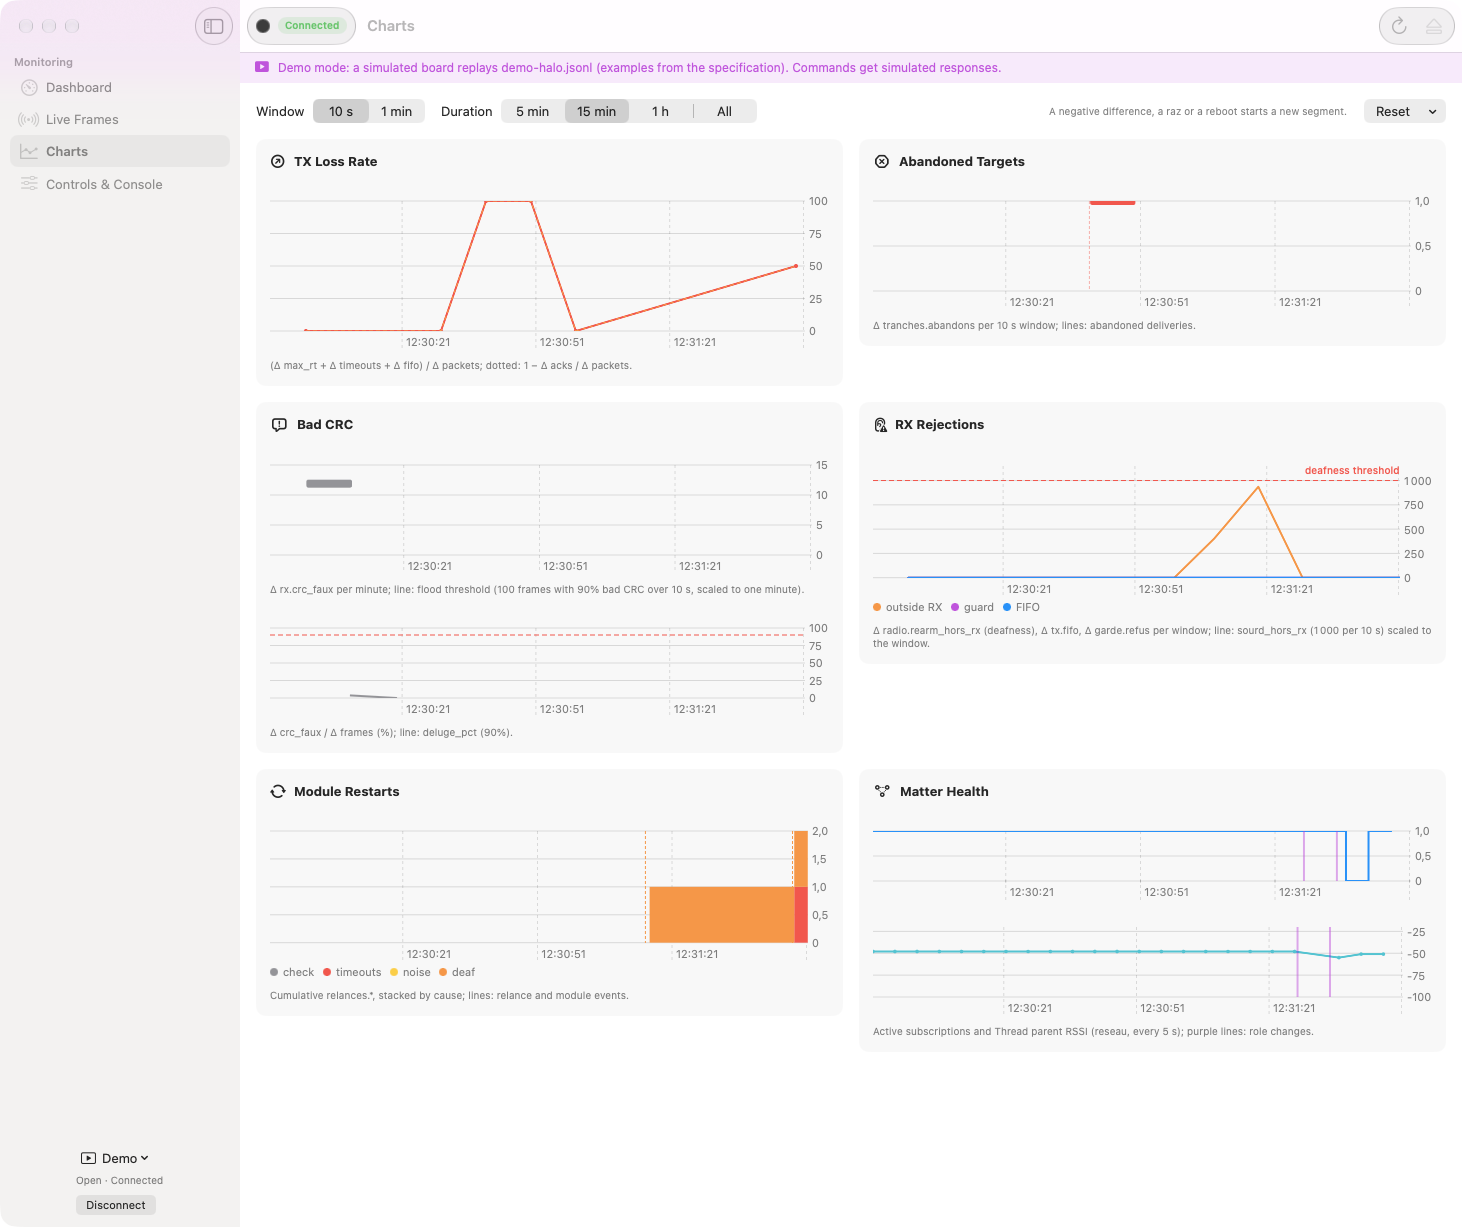
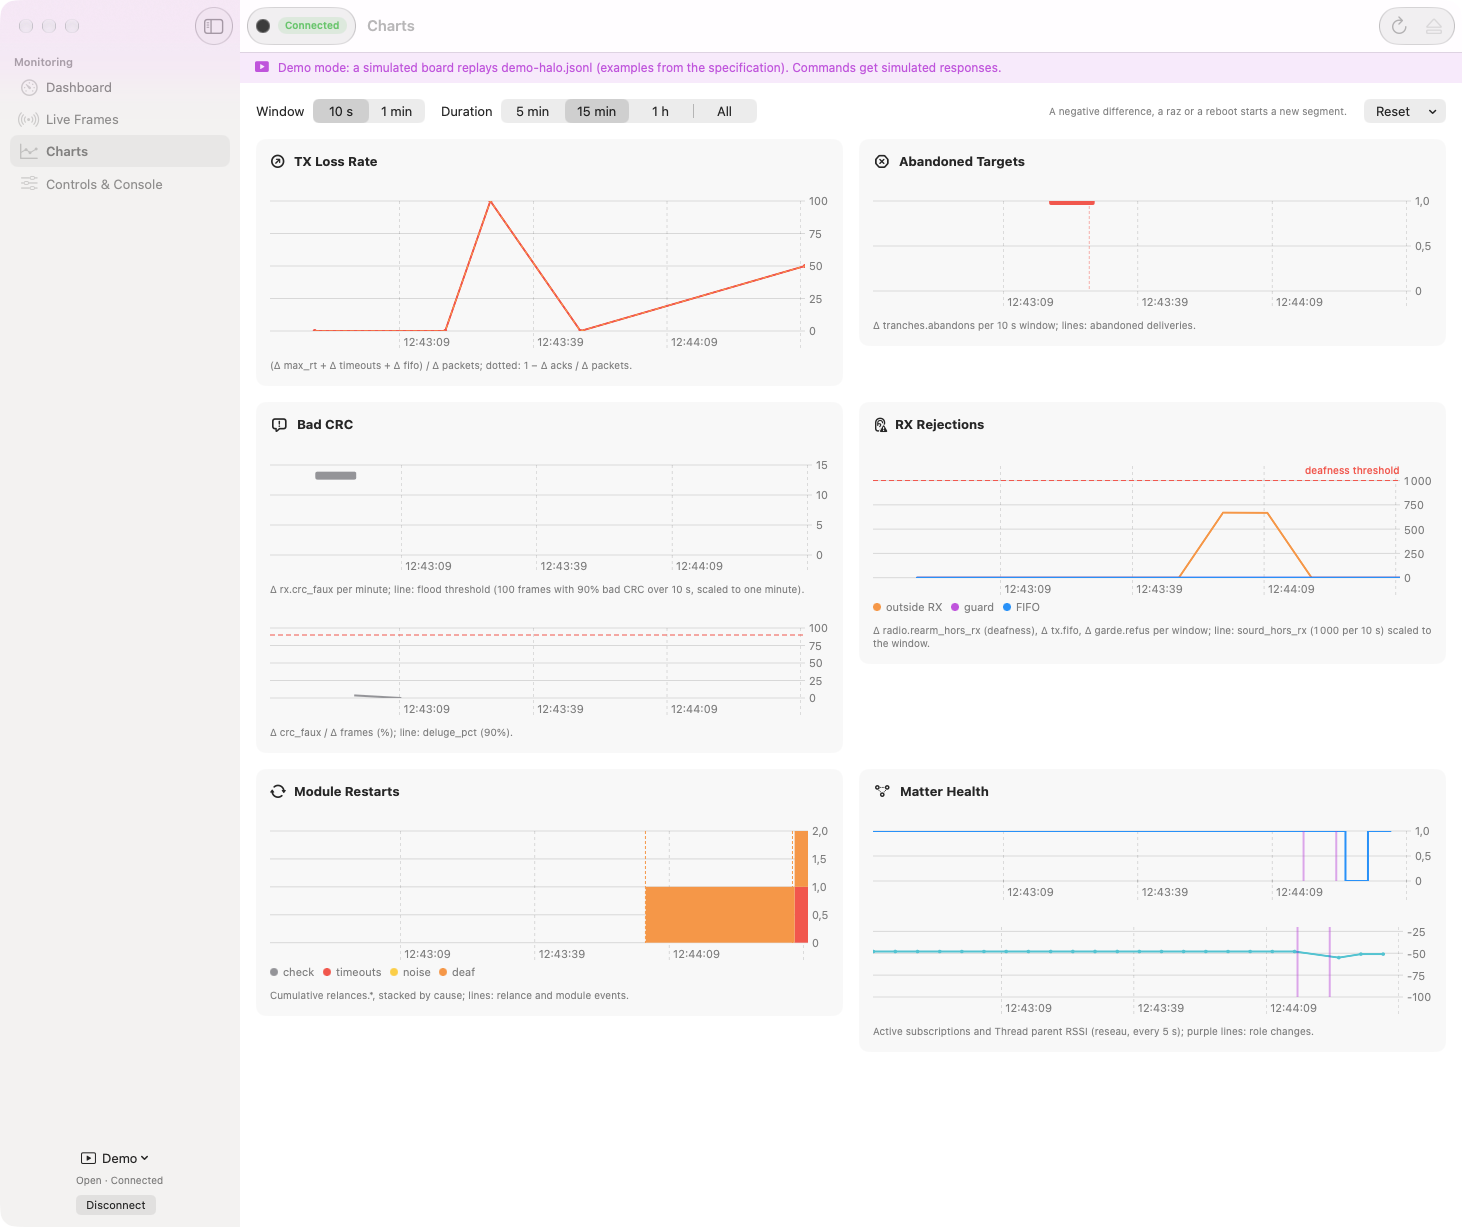
Regenerer la demo en rev 4 et refaire les captures
generer_demo.py suit la rev 4 : hello rev 4, capacites udp et cle,
led.depuis_ms dans le bloc sante et les evenements led (meme regle que
status_led : un evenement part de zero, le retour en ligne reprend la phase
de la lueur, sauf apres hors_reseau). L'exemple 12.1 reseau/thread porte
desormais le code d'appairage et le QR, comme la carte le fait depuis la
rev 3 par l'USB (l'ancien fichier de demo les avait ajoutes a la main) ; le
test des exemples suit. Captures des quatre ecrans refaites avec cette demo.

diff --git a/apps/macos/HaloProtocoleTests/ExemplesSpecTests.swift b/apps/macos/HaloProtocoleTests/ExemplesSpecTests.swift
@@ -122,7 +122,9 @@ struct ExemplesSpecTests {
         #expect(th.thread?.role == "child")
         #expect(th.thread?.parentRssi == -48)
         #expect(th.thread?.srp?.hote == "Registered")
-        #expect(th.matter?.codeManuel == nil)
+        // Rev 3 : les codes partent aussi une fois en service (session USB).
+        #expect(th.matter?.codeManuel == "34970112332")
+        #expect(th.matter?.qr == "MT:Y.K9042C00KA0648G00")
 
         guard case .reseauAbonnements(let a) = l[10].message else { Issue.record("abonnements"); return }
         #expect(a.abonnements?.actifs == 1)

diff --git a/apps/macos/Outils/generer_demo.py b/apps/macos/Outils/generer_demo.py
@@ -160,6 +160,10 @@ class Carte:
                         "attente_ms": 0, "relances": 0, "derniere": None}
         self.derniere_at = None
         self.led = "operationnel"
+        # Depart de la phase du voyant (led.depuis_ms, rev 4) : la carte est en
+        # ligne depuis ms 21357 (12.1 : depuis_ms 62160 a ms 83517).
+        self.net_at = 21357
+        self.led_at = self.net_at
         self.matter_sante = {"en_service": True, "connecte": True, "identify": False}
         self.sys = {"heap": 112640, "heap_min": 86016, "heap_bloc": 45056, "pile_boucle": 4380,
                     "boucle_max_ms": 3, "json_perdus": 0, "json_trop_longs": 0, "rejets": 0}
@@ -186,7 +190,7 @@ class Carte:
                        "srp": {"client": True, "hote": "Registered", "services": 1, "enregistres": 1,
                                "serveur": "fd8e:1c2a:44b0:1::1", "port": 53535}}
         self.matter_reseau = {"en_service": True, "connecte": True, "reseau": "thread", "wifi": False,
-                              "fabriques": 1, "code_manuel": None, "qr": None}
+                              "fabriques": 1, "code_manuel": "34970112332", "qr": "MT:Y.K9042C00KA0648G00"}
         self.abo = {"actifs": 1, "lectures": 0, "sauves": 1, "demandes": 1, "neufs": 1, "repris_pont": 0,
                     "repris_pile": 0, "termines": 0, "plafond_s": 20, "plafonnes": 1, "reprise_auto": True}
         self.reprise = {"passages": 1, "auto": 1, "sessions": 0, "ouvertes": 0, "echecs": 0,
@@ -250,7 +254,8 @@ class Carte:
                 "boot": BOOT, "up_s": self.up_s(),
                 "radio": {"presente": True, "perdue": False, "mode": self.radio_mode, "configuree": True,
                           "quartz": True, "calib": True},
-                "surveil": s, "led": {"motif": self.led, "test": False}, "matter": dict(self.matter_sante),
+                "surveil": s, "led": {"motif": self.led, "test": False, "depuis_ms": self.ms - self.led_at},
+                "matter": dict(self.matter_sante),
                 "sys": dict(self.sys)}),
             ("compteurs", "pilote", {"raz": 0, "tx": dict(self.tx), "tranches": dict(self.tr), "a": dict(self.a),
                                      "rx": dict(self.rx), "divers": dict(self.divers)}),
@@ -273,6 +278,8 @@ class Carte:
             s["derniere"] = dict(s["derniere"])
             s["derniere"].pop("il_y_a_s", None)
             c["surveil"] = s
+        if isinstance(c.get("led"), dict):
+            c["led"] = {k: v for k, v in c["led"].items() if k != "depuis_ms"}
         return json.dumps(c, sort_keys=True)
 
     def instantane(self, force=False):
@@ -288,7 +295,13 @@ class Carte:
     def led_evt(self, motif):
         avant = self.led
         self.led = motif
-        self.emet("led", {"motif": motif, "avant": avant, "test": False})
+        # Comme status_led : un evenement part de zero ; le retour en
+        # "operationnel" reprend la phase de la lueur, sauf apres "hors_reseau"
+        # (retour en ligne = nouveau depart, setNet).
+        if motif == "hors_reseau" or (motif == "operationnel" and avant == "hors_reseau"):
+            self.net_at = self.ms
+        self.led_at = self.net_at if motif == "operationnel" else self.ms
+        self.emet("led", {"motif": motif, "avant": avant, "test": False, "depuis_ms": self.ms - self.led_at})
 
     def _rx(self, pay, no_ack=False, crc_faux=False, type_=None, sens=None, source="ecoute"):
         self.pid = (self.pid + 1) & 3
@@ -493,7 +506,7 @@ def scenario():
     entete(c)
 
     # 0 s : instantane de connexion (12.1), sans la reponse : le rejeu la fabrique avec l'id de l'app.
-    hello_base = {"rev": 0, "fw": "0.4.0-1a2b3c4", "fw_desc": "0.4.0-1a2b3c4", "date": "Sep 24 2026",
+    hello_base = {"rev": 4, "fw": "0.4.0-1a2b3c4", "fw_desc": "0.4.0-1a2b3c4", "date": "Sep 24 2026",
                   "heure": "14:02:11", "env": "esp32c6thread", "build": "produit", "reseau_build": "thread",
                   "puce": "esp32c6", "idf": "v5.5.5", "arduino": "3.3.12", "boot": BOOT, "reset": "logiciel",
                   "reset_n": 3, "up_s": 83,
@@ -505,7 +518,8 @@ def scenario():
     c.emet("hello", {"boot": BOOT, "mac": "F0F5BD012345",
                      "id": {"fabricant": "Djoko-CLI", "produit": "Pont ScreenBar Halo", "serie": "HALO1-F0F5BD012345",
                             "nom": "Halo", "hw": 1, "hw_txt": "ESP32-C6 SuperMini + BM5602"},
-                     "caps": ["matter", "thread", "garde", "led", "lampe_async", "trames", "log"]}, "identite")
+                     "caps": ["matter", "thread", "garde", "led", "lampe_async", "trames", "log", "udp", "cle"]},
+           "identite")
     c.avance(1)
     c.emet("config", {"lampe": {"adresse": "4FF0FD63", "air": "63FDF04F", "canal": 5, "debit_kbps": 125},
                       "reglages": {"paquets": 3, "accuses_min": 2, "paquets_max": 5, "ecart_ms": 100,

diff --git a/docs/PROTOCOLE-JSON.fr.md b/docs/PROTOCOLE-JSON.fr.md
@@ -1572,7 +1572,7 @@ Carte -> app :
 <RS>{"v":1,"t":"compteurs","n":6,"ms":83518,"bloc":"pilote","raz":0,"tx":{"consignes":6,"paquets":21,"accuses":19,"ack_trame":0,"max_rt":2,"delais":0,"fifo":0,"total":21},"tranches":{"faibles":0,"preemptees":1,"annulees":0,"reprises":0,"abandons":0,"attentes":0},"a":{"livres":0,"refuses":0},"rx":{"trames":148,"etat":36,"a":0,"accuses_lampe":36,"service":76,"favori":0,"invalides":0,"crc_faux":0},"divers":{"sauvegardes":3,"traces_perdues":0,"relances_module":0}}
 <RS>{"v":1,"t":"compteurs","n":7,"ms":83519,"bloc":"radio","raz":0,"radio":{"configs":161,"reconf_silence":139,"reconf_tx":2,"verif_ratees":0,"rearm":560,"rearm_hors_rx":3,"brutes":148,"bascules":0},"garde":{"active":true,"gardes":21,"refus":0,"attentes":4,"plafonnees":0,"max_us":2380},"relances":{"total":0,"verif":0,"delais":0,"bruit":0,"sourde":0}}
 <RS>{"v":1,"t":"compteurs","n":8,"ms":83520,"bloc":"matter","fenetres":5,"ignorees":1,"reflets":11,"ecritures":14,"echecs":0,"verrou":2,"traces_perdues":0,"identify":0}
-<RS>{"v":1,"t":"reseau","n":9,"ms":83521,"bloc":"thread","frais_ms":310,"matter":{"en_service":true,"connecte":true,"reseau":"thread","wifi":false,"fabriques":1,"code_manuel":null,"qr":null},"thread":{"role":"child","canal":25,"mhz":2475,"pan":"0x1A2B","tx_dbm":20,"parent_rssi":-48,"mode":"rn","type_boot":"med_init","type_suivant":"med_init","pret_ms":21870,"roles":2,"mle":{"attaches":1,"detache":1,"enfant":1,"routeur":0,"chef":0,"parent_change":0},"srp":{"client":true,"hote":"Registered","services":1,"enregistres":1,"serveur":"fd8e:1c2a:44b0:1::1","port":53535}}}
+<RS>{"v":1,"t":"reseau","n":9,"ms":83521,"bloc":"thread","frais_ms":310,"matter":{"en_service":true,"connecte":true,"reseau":"thread","wifi":false,"fabriques":1,"code_manuel":"34970112332","qr":"MT:Y.K9042C00KA0648G00"},"thread":{"role":"child","canal":25,"mhz":2475,"pan":"0x1A2B","tx_dbm":20,"parent_rssi":-48,"mode":"rn","type_boot":"med_init","type_suivant":"med_init","pret_ms":21870,"roles":2,"mle":{"attaches":1,"detache":1,"enfant":1,"routeur":0,"chef":0,"parent_change":0},"srp":{"client":true,"hote":"Registered","services":1,"enregistres":1,"serveur":"fd8e:1c2a:44b0:1::1","port":53535}}}
 <RS>{"v":1,"t":"reseau","n":10,"ms":83522,"bloc":"abonnements","frais_ms":1210,"abonnements":{"actifs":1,"lectures":0,"sauves":1,"demandes":1,"neufs":1,"repris_pont":0,"repris_pile":0,"termines":0,"plafond_s":20,"plafonnes":1,"reprise_auto":true},"reprise":{"passages":1,"auto":1,"sessions":0,"ouvertes":0,"echecs":0,"sans_nouvelles":0,"reprises":0,"en_cours":false}}
 <RS>{"v":1,"t":"reponse","n":11,"ms":83523,"id":1,"etape":"fin","cmd":"json 1","ok":true,"code":"ok","duree_ms":12,"bail_s":30,"up_s":83}
 ```

diff --git a/docs/PROTOCOLE-JSON.md b/docs/PROTOCOLE-JSON.md
@@ -1602,7 +1602,7 @@ Board -> app:
 <RS>{"v":1,"t":"compteurs","n":6,"ms":83518,"bloc":"pilote","raz":0,"tx":{"consignes":6,"paquets":21,"accuses":19,"ack_trame":0,"max_rt":2,"delais":0,"fifo":0,"total":21},"tranches":{"faibles":0,"preemptees":1,"annulees":0,"reprises":0,"abandons":0,"attentes":0},"a":{"livres":0,"refuses":0},"rx":{"trames":148,"etat":36,"a":0,"accuses_lampe":36,"service":76,"favori":0,"invalides":0,"crc_faux":0},"divers":{"sauvegardes":3,"traces_perdues":0,"relances_module":0}}
 <RS>{"v":1,"t":"compteurs","n":7,"ms":83519,"bloc":"radio","raz":0,"radio":{"configs":161,"reconf_silence":139,"reconf_tx":2,"verif_ratees":0,"rearm":560,"rearm_hors_rx":3,"brutes":148,"bascules":0},"garde":{"active":true,"gardes":21,"refus":0,"attentes":4,"plafonnees":0,"max_us":2380},"relances":{"total":0,"verif":0,"delais":0,"bruit":0,"sourde":0}}
 <RS>{"v":1,"t":"compteurs","n":8,"ms":83520,"bloc":"matter","fenetres":5,"ignorees":1,"reflets":11,"ecritures":14,"echecs":0,"verrou":2,"traces_perdues":0,"identify":0}
-<RS>{"v":1,"t":"reseau","n":9,"ms":83521,"bloc":"thread","frais_ms":310,"matter":{"en_service":true,"connecte":true,"reseau":"thread","wifi":false,"fabriques":1,"code_manuel":null,"qr":null},"thread":{"role":"child","canal":25,"mhz":2475,"pan":"0x1A2B","tx_dbm":20,"parent_rssi":-48,"mode":"rn","type_boot":"med_init","type_suivant":"med_init","pret_ms":21870,"roles":2,"mle":{"attaches":1,"detache":1,"enfant":1,"routeur":0,"chef":0,"parent_change":0},"srp":{"client":true,"hote":"Registered","services":1,"enregistres":1,"serveur":"fd8e:1c2a:44b0:1::1","port":53535}}}
+<RS>{"v":1,"t":"reseau","n":9,"ms":83521,"bloc":"thread","frais_ms":310,"matter":{"en_service":true,"connecte":true,"reseau":"thread","wifi":false,"fabriques":1,"code_manuel":"34970112332","qr":"MT:Y.K9042C00KA0648G00"},"thread":{"role":"child","canal":25,"mhz":2475,"pan":"0x1A2B","tx_dbm":20,"parent_rssi":-48,"mode":"rn","type_boot":"med_init","type_suivant":"med_init","pret_ms":21870,"roles":2,"mle":{"attaches":1,"detache":1,"enfant":1,"routeur":0,"chef":0,"parent_change":0},"srp":{"client":true,"hote":"Registered","services":1,"enregistres":1,"serveur":"fd8e:1c2a:44b0:1::1","port":53535}}}
 <RS>{"v":1,"t":"reseau","n":10,"ms":83522,"bloc":"abonnements","frais_ms":1210,"abonnements":{"actifs":1,"lectures":0,"sauves":1,"demandes":1,"neufs":1,"repris_pont":0,"repris_pile":0,"termines":0,"plafond_s":20,"plafonnes":1,"reprise_auto":true},"reprise":{"passages":1,"auto":1,"sessions":0,"ouvertes":0,"echecs":0,"sans_nouvelles":0,"reprises":0,"en_cours":false}}
 <RS>{"v":1,"t":"reponse","n":11,"ms":83523,"id":1,"etape":"fin","cmd":"json 1","ok":true,"code":"ok","duree_ms":12,"bail_s":30,"up_s":83}
 ```
